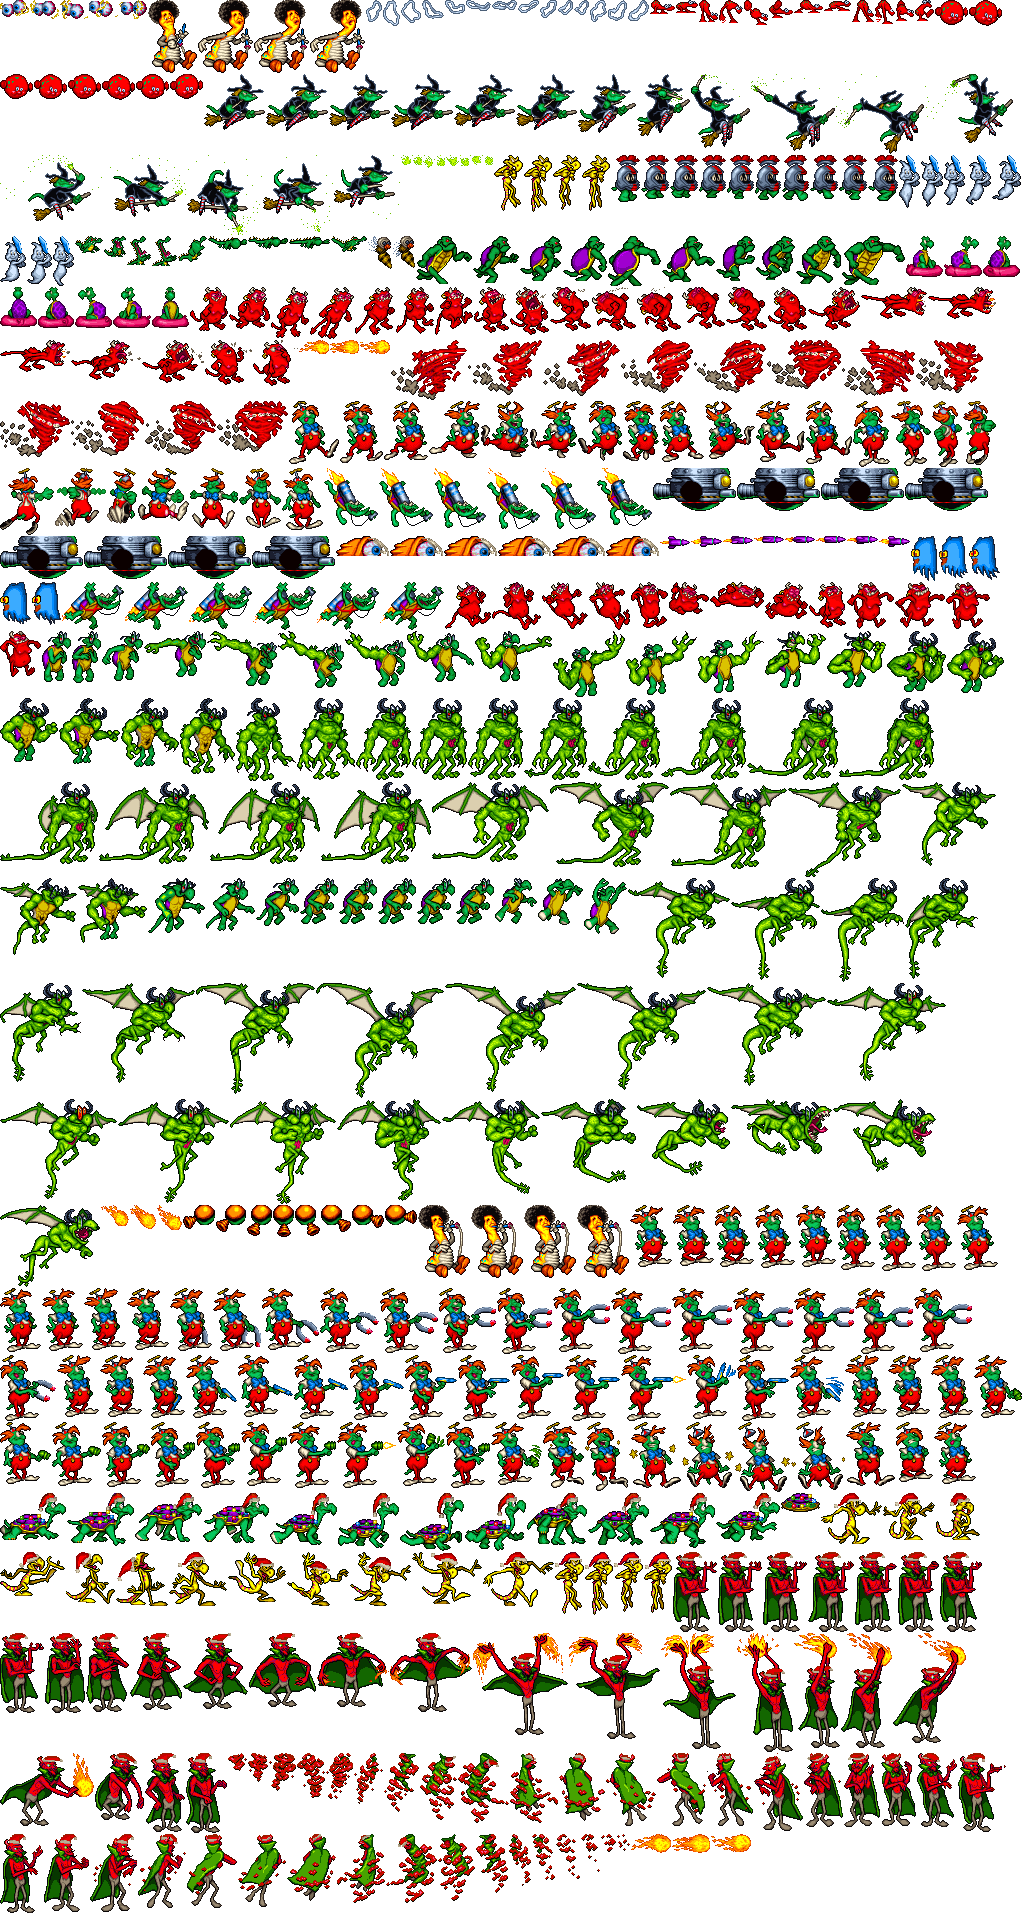
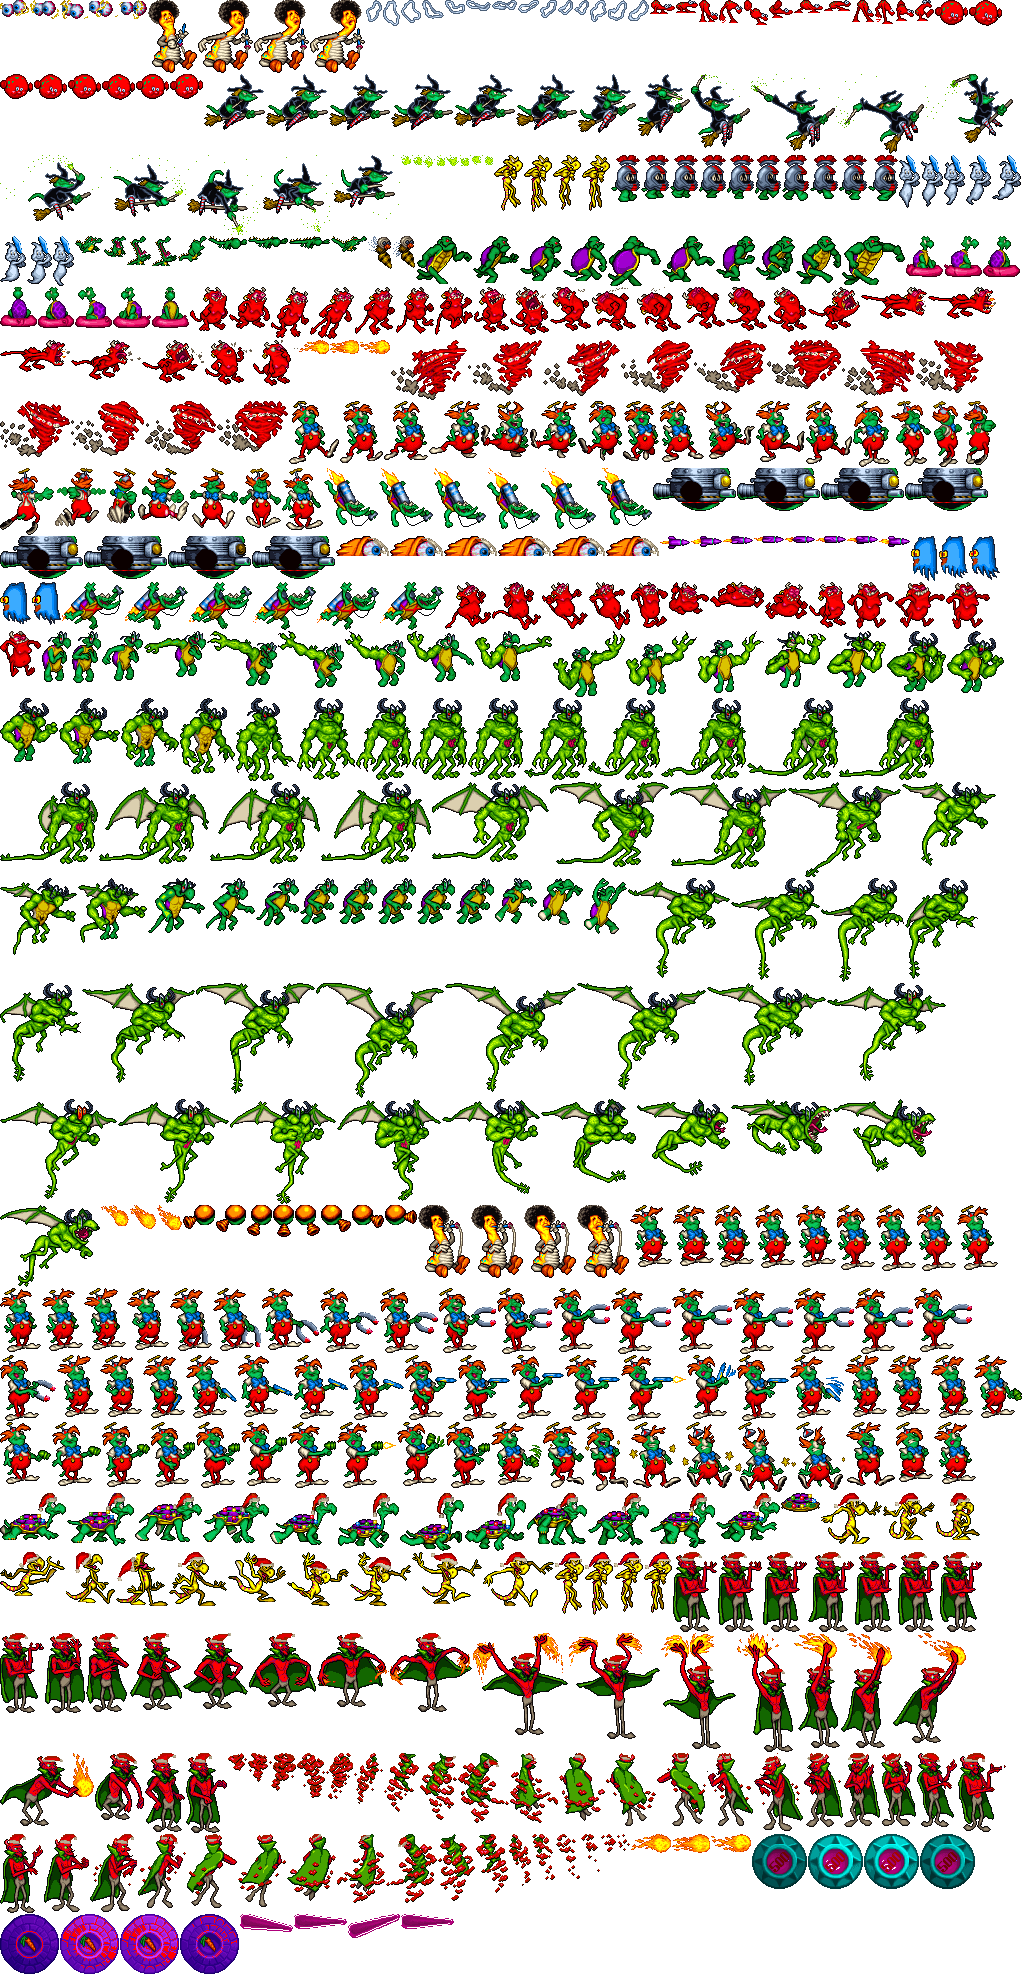
JJ2 pinball bumpers and paddles; springs stand on the floor under them
- Events 137-140 (Tubelectric's pinball): a bumper knocks the player away
  from its middle, always with a lift, so a column of them can be bounced
  up (500 points a bump; the carrot bumper heals a heart once); a paddle
  flicks a player who lands on it up and across. Voltage Village starts in
  a room whose only way out is the paddle and the bumper column above it,
  and fifteen levels use them. Sprites and sounds from Anims.j2a.
- A JJ2 spring (and paddle) settles onto the floor under it: a rail can sit
  a few pixels below its tile's bottom, where walking onto the spring
  never set it off.

Claude-Session: https://claude.ai/code/session_014VrjeuzQF9z1CDhmbTuLih

diff --git a/src/entities.js b/src/entities.js
@@ -849,6 +849,70 @@ export class Spring {
   }
 }
 
+// JJ2 pinball bumpers (Tubelectric): a touch knocks the player away from
+// the middle, always with a lift, so a column of them can be bounced up.
+// 500 points a bump; the carrot one heals a heart the first time.
+export class Bumper {
+  constructor({ tx, ty, carrot }) {
+    Object.assign(this, { kind: 'bumper', carrot, cx: tx * TILE + TILE / 2, cy: ty * TILE + TILE / 2, cool: 0, lit: 0, healed: false });
+    this.x = this.cx - 20; this.y = this.cy - 20; this.w = 40; this.h = 40;
+  }
+
+  update(game) {
+    if (this.cool > 0) this.cool--;
+    if (this.lit > 0) this.lit--;
+    const p = game.player;
+    if (p.dead || this.cool > 0) return;
+    const dx = p.cx - this.cx; const dy = p.cy - this.cy;
+    const d = Math.hypot(dx, dy);
+    if (d > 30) return;
+    const nx = d ? dx / d : 0; const ny = d ? dy / d : -1;
+    p.vx = nx * 12;
+    p.vy = Math.min(ny * 12, -10);
+    Object.assign(p, { jumping: false, jumpCut: false, onGround: false, stomping: false, hovering: false, doubleJumped: false });
+    this.cool = 12; this.lit = 14;
+    game.audio.play('bumper');
+    game.addScore(500, this.cx, this.cy - 20);
+    if (this.carrot && !this.healed && p.health < PLAYER.maxHealth) { this.healed = true; p.health++; }
+  }
+
+  sprite(art) {
+    const a = art.jj2e.anims;
+    const anim = this.carrot ? (this.lit ? a.bumperCarrotHit : a.bumperCarrot) : (this.lit ? a.bumper500Hit : a.bumper500);
+    return frameAt(anim, this.lit ? 14 - this.lit : 0, 3);
+  }
+
+  draw(r) { r.sprite(this.sprite(r.art), this.cx, this.cy + 16); }
+}
+
+// JJ2 pinball paddles: land on one and it flicks the player up and across
+// (the left paddle throws to the right).
+export class Paddle {
+  constructor({ tx, ty, dir }) {
+    Object.assign(this, { kind: 'paddle', dir, flick: 0 });
+    this.x = tx * TILE - 8; this.y = ty * TILE + 12; this.w = 48; this.h = 20;
+  }
+
+  update(game) {
+    if (this.flick > 0) this.flick--;
+    const p = game.player;
+    if (p.dead || this.flick > 0) return;
+    const feet = p.y + p.h;
+    if (p.vy < 0 || feet < this.y - 4 || feet > this.y + 20 || p.x + p.w < this.x || p.x > this.x + this.w) return;
+    p.y = this.y - p.h;
+    p.vx = this.dir * 8;
+    p.vy = -22;
+    Object.assign(p, { jumping: false, jumpCut: false, onGround: false, stomping: false, hovering: false, doubleJumped: false });
+    this.flick = 20;
+    game.audio.play('paddle');
+  }
+
+  draw(r) {
+    const f = r.art.jj2e.anims.paddle.frames[this.flick > 0 ? Math.min(r.art.jj2e.anims.paddle.frames.length - 1, Math.floor((20 - this.flick) / 3)) : 0];
+    r.sprite(f, this.x + this.w / 2, this.y + this.h, this.dir < 0);
+  }
+}
+
 export class Checkpoint {
   constructor(tx, ty) {
     this.kind = 'checkpoint';

diff --git a/src/game.js b/src/game.js
@@ -8,7 +8,7 @@ import { tr } from './lang.js';
 import { THEME_TILESET } from './tilesets.js';
 import { CAMERA, PHYS, PLAYER, TILE, VIEW_H, VIEW_W } from './config.js';
 import {
-  Checkpoint, Effect, Hint, ScriptArea, makeEnemy, overlap, Particle, Pickup, Pole, SecretZone, Sign, Spring, SPRING_CHARS, Warp,
+  Bumper, Checkpoint, Effect, Hint, ScriptArea, makeEnemy, overlap, Paddle, Particle, Pickup, Pole, SecretZone, Sign, Spring, SPRING_CHARS, Warp,
 } from './entities.js';
 import { jj2Tick } from './jj2/play.js';
 import { cleanText } from './jj2/files.js';
@@ -163,7 +163,14 @@ export class Game {
       const py = e.ty * TILE;
       const enemy = this.makeFoe(e);
       if (enemy) { this.enemies.push(enemy); totals.enemies++; continue; }
-      if (SPRING_CHARS.includes(e.ch)) { this.props.push(new Spring(e.tx, e.ty, e.ch)); continue; }
+      if (SPRING_CHARS.includes(e.ch)) {
+        const spring = new Spring(e.tx, e.ty, e.ch);
+        // A JJ2 spring stands on whatever floor is under it (a rail can sit
+        // a few pixels lower than its tile's bottom, out of the spring's reach).
+        if (this.level.jj2 && !spring.dir) this.settleSpring(spring);
+        this.props.push(spring);
+        continue;
+      }
       switch (e.ch) {
         case 'P': start = { x: px + (TILE - PLAYER.w) / 2, y: py + TILE - playerH }; break;
         case 'H': this.props.push(new Pole(e.tx, e.ty, false)); break;
@@ -187,6 +194,8 @@ export class Game {
       if (o.type === 'script') this.props.push(new ScriptArea(o));
       if (o.type === 'exit') this.props.push(new Sign(o.tx, o.ty, true));
       if (o.type === 'pole') this.props.push(new Pole(o.tx, o.ty, o.vertical, true));
+      if (o.type === 'bumper') this.props.push(new Bumper(o));
+      if (o.type === 'paddle') { const pd = new Paddle(o); this.settleSpring(pd); this.props.push(pd); }
       // JJ2 bombs: TNT lying in wait.
       if (o.type === 'bomb') { const t = new Bullet(TNT, false, o.tx * TILE + 9, o.ty * TILE + 18, 0, 0); t.placed = true; t.armed = 0; this.shots.push(t); }
       const k = Pickup.fromObject(o);
@@ -236,6 +245,14 @@ export class Game {
   }
 
   // Stand `k` on the floor surface nearest `y` in its middle column.
+  settleSpring(k) {
+    const L = this.level; const cx = k.x + k.w / 2;
+    const solid = (y) => (L.solidPx ? L.solidPx(cx, y, true) : L.solidAt(cx, y));
+    const top = k.y + k.h - 16;
+    if (solid(top)) return;
+    for (let y = top; y < top + 72; y++) if (solid(y)) { k.y = y - k.h; return; }
+  }
+
   settle(k, y) {
     const L = this.level; const cx = k.x + k.w / 2;
     let floor = null;

diff --git a/src/jj2/level.js b/src/jj2/level.js
@@ -239,6 +239,9 @@ export class JJ2Level extends Level {
           }
           // The bird morph monitor: it turns the player into a bird.
           case EV.BIRD_MONITOR: this.objects.push({ type: 'birdmorph', tx, ty }); break;
+          // Pinball paddles (137 left, 138 right) and bumpers (139, 140 carrot).
+          case 137: case 138: this.objects.push({ type: 'paddle', tx, ty, dir: id === 137 ? 1 : -1 }); break;
+          case 139: case 140: this.objects.push({ type: 'bumper', tx, ty, carrot: id === 140 }); break;
           case EV.WARP_ORIGIN: {
             // SetLap: a race counts a lap here.
             const [wid, coins, setLap] = eventFields(ev.params, [8, 8, 1]);

diff --git a/src/sfxmap.js b/src/sfxmap.js
@@ -54,6 +54,8 @@ export const JJ2_SFX = {
   crate: ['Object/container_crate_break'],
   oneUp: ['Pickup/1up'],
   spring: ['Spring/spring'],
+  bumper: ['Pinball/bumper_hit'],
+  paddle: ['Pinball/paddle_hit_1', 'Pinball/paddle_hit_2', 'Pinball/paddle_hit_3', 'Pinball/paddle_hit_4'],
   jump: ['Common/char_jump'],
   doubleJump: ['Common/char_double_jump'],
   land: ['Common/char_land'],
